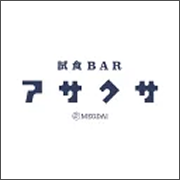
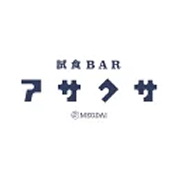
Add real hero/ranking images; fix hero aspect ratio to 16:9 (no cropping)

diff --git a/index.html b/index.html
@@ -87,39 +87,19 @@
             <div class="splide__track">
                 <ul class="splide__list">
                     <li class="splide__slide">
-                        <div class="wf-ph" style="width:100%;height:100%;">メインビジュアル 01 ／ 主役バナー</div>
-                        <div class="hero-caption">
-                            <div class="eyebrow">FEATURE</div>
-                            <div class="headline">上質な暮らしを、<br>あなたへ。</div>
-                        </div>
+                        <img class="hero-slide-img" src="images/hero-01-feature.png" alt="">
                     </li>
                     <li class="splide__slide">
-                        <div class="wf-ph" style="width:100%;height:100%;">メインビジュアル 02 ／ 特集バナー</div>
-                        <div class="hero-caption">
-                            <div class="eyebrow">CAMPAIGN</div>
-                            <div class="headline">公式ブランドの<br>特別なギフト。</div>
-                        </div>
+                        <img class="hero-slide-img" src="images/hero-02-campaign.jpg" alt="">
                     </li>
                     <li class="splide__slide">
-                        <div class="wf-ph" style="width:100%;height:100%;">メインビジュアル 03 ／ 新着バナー</div>
-                        <div class="hero-caption">
-                            <div class="eyebrow">NEW</div>
-                            <div class="headline">今シーズンの<br>新着アイテム。</div>
-                        </div>
+                        <img class="hero-slide-img" src="images/hero-03-new.png" alt="">
                     </li>
                     <li class="splide__slide">
-                        <div class="wf-ph" style="width:100%;height:100%;">メインビジュアル 04 ／ ブランド特集</div>
-                        <div class="hero-caption">
-                            <div class="eyebrow">BRAND</div>
-                            <div class="headline">人気ブランドを<br>集めました。</div>
-                        </div>
+                        <img class="hero-slide-img" src="images/hero-04-brand.jpg" alt="">
                     </li>
                     <li class="splide__slide">
-                        <div class="wf-ph" style="width:100%;height:100%;">メインビジュアル 05 ／ ギフト特集</div>
-                        <div class="hero-caption">
-                            <div class="eyebrow">GIFT</div>
-                            <div class="headline">大切な人へ、<br>贈り物を。</div>
-                        </div>
+                        <img class="hero-slide-img" src="images/hero-05-gift.jpg" alt="">
                     </li>
                 </ul>
             </div>
@@ -163,7 +143,7 @@
             <div class="ranking-card">
                 <span class="rank-badge rank-1">1</span>
                 <span class="badge-official">公式取扱</span>
-                <div class="thumb wf-ph">商品画像</div>
+                <img class="thumb" src="images/ranking/24sj-1_00_240523.webp" alt="">
                 <div class="info">
                     <div class="brand">ブランド名</div>
                     <div class="name">商品名がここに入ります</div>
@@ -174,7 +154,7 @@
             <div class="ranking-card">
                 <span class="rank-badge rank-2">2</span>
                 <span class="badge-official">公式取扱</span>
-                <div class="thumb wf-ph">商品画像</div>
+                <img class="thumb" src="images/ranking/imgrc0111992213.webp" alt="">
                 <div class="info">
                     <div class="brand">ブランド名</div>
                     <div class="name">商品名がここに入ります</div>
@@ -185,7 +165,7 @@
             <div class="ranking-card">
                 <span class="rank-badge rank-3">3</span>
                 <span class="badge-official">公式取扱</span>
-                <div class="thumb wf-ph">商品画像</div>
+                <img class="thumb" src="images/ranking/imgrc0112333128.webp" alt="">
                 <div class="info">
                     <div class="brand">ブランド名</div>
                     <div class="name">商品名がここに入ります</div>
@@ -196,7 +176,7 @@
             <div class="ranking-card">
                 <span class="rank-badge rank-4">4</span>
                 <span class="badge-official">公式取扱</span>
-                <div class="thumb wf-ph">商品画像</div>
+                <img class="thumb" src="images/ranking/lp_mugimug_260422_01.webp" alt="">
                 <div class="info">
                     <div class="brand">ブランド名</div>
                     <div class="name">商品名がここに入ります</div>
@@ -207,7 +187,7 @@
             <div class="ranking-card">
                 <span class="rank-badge rank-5">5</span>
                 <span class="badge-official">公式取扱</span>
-                <div class="thumb wf-ph">商品画像</div>
+                <img class="thumb" src="images/ranking/symrest_thum.webp" alt="">
                 <div class="info">
                     <div class="brand">ブランド名</div>
                     <div class="name">商品名がここに入ります</div>

diff --git a/style.css b/style.css
@@ -348,7 +348,9 @@ section.hero-carousel {
     padding: var(--space-2xl) 0 0;
 }
 .splide__slide {
-    height: 440px;
+    /* matches the 1600x900 (16:9) source images exactly, so
+       object-fit: cover never needs to crop anything */
+    aspect-ratio: 16 / 9;
     position: relative;
     opacity: 0.4;
     transform: scale(0.9);
@@ -363,25 +365,10 @@ section.hero-carousel {
     height: 100%;
     font-size: 15px;
 }
-.hero-caption {
-    position: absolute;
-    left: 8%;
-    top: 50%;
-    transform: translateY(-50%);
-}
-.hero-caption .eyebrow {
-    font-family: "Georgia", serif;
-    font-size: 13px;
-    letter-spacing: 0.15em;
-    color: var(--color-text-secondary);
-    margin-bottom: 10px;
-}
-.hero-caption .headline {
-    font-family: var(--font-heading);
-    font-size: 38px;
-    font-weight: 300;
-    line-height: 1.4;
-    color: var(--color-text-primary);
+.hero-slide-img {
+    width: 100%;
+    height: 100%;
+    object-fit: cover;
 }
 .hero-controls {
     display: flex;
@@ -483,6 +470,7 @@ section.hero-carousel {
 .ranking-card .thumb {
     width: 100%;
     aspect-ratio: 1 / 1;
+    object-fit: cover;
 }
 .ranking-card .info {
     padding: 12px 15px 16px;
@@ -784,8 +772,7 @@ section[data-screen-label="Category"] {
     /* no neighbouring slides peek at this width, so the "shrink the
        inactive slides" zoom effect has nothing to relate to — just show
        every slide at full size and let it scroll in normally */
-    .splide__slide { height: 300px; opacity: 1; transform: none; }
-    .hero-caption .headline { font-size: 26px; }
+    .splide__slide { opacity: 1; transform: none; }
     .ranking-grid { grid-template-columns: repeat(2, minmax(0, 1fr)); gap: 20px; }
     .campaign-grid { grid-template-columns: repeat(2, minmax(0, 1fr)); gap: 20px; }
     .pickup-grid { grid-template-columns: repeat(2, minmax(0, 1fr)); gap: 20px; }